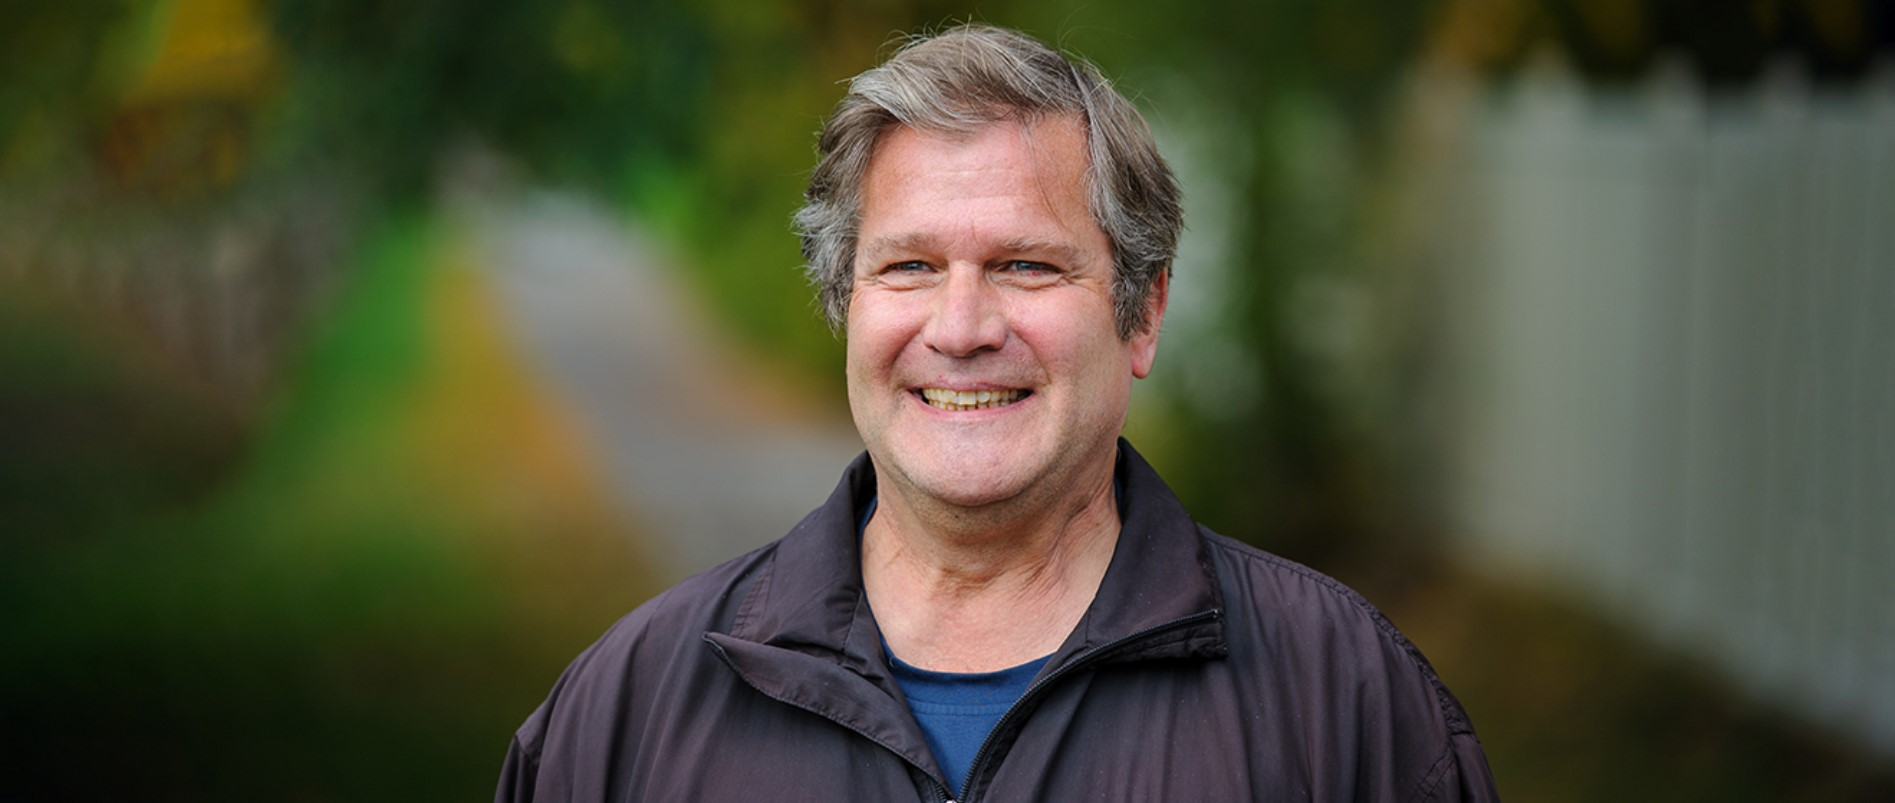
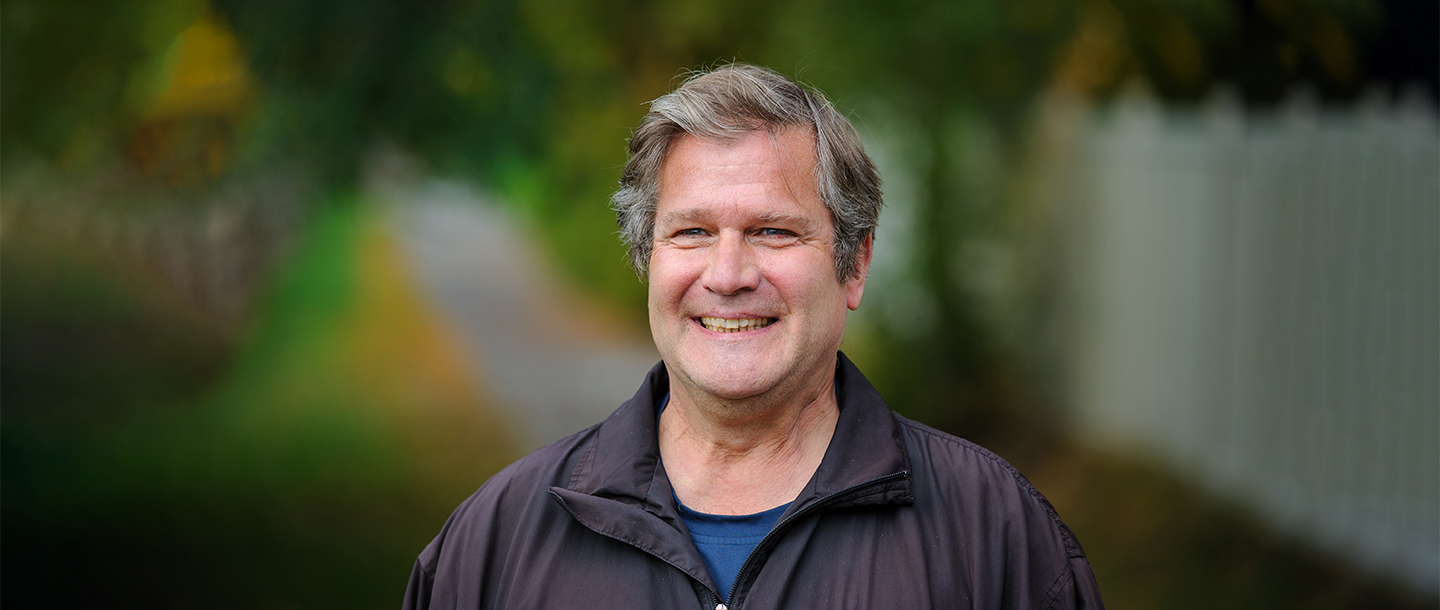
signature events hero

diff --git a/styleSE.css b/styleSE.css
@@ -352,3 +352,17 @@ ol a {
         background-color: var(--colour-orange) !important;
         color: var(--colour-white);
     }
+
+    
+.heroImage {
+    height: 100%;
+    display: flex;
+    flex-direction: column;
+    align-items: stretch;
+    justify-content: start;
+    /* border: 1px solid red; */
+    background-image: url("./The_Shepherds_of_Good_Hope_Hero_GetInvolved.jpg"); 
+    background-size: cover;
+    background-position: center;
+    height:65vh;
+  }

diff --git a/signatureEvents.html b/signatureEvents.html
@@ -218,7 +218,8 @@
                 </button>
             </div>
         </div>
-        <img src="The_Shepherds_of_Good_Hope_Hero_GetInvolved.jpg" alt="The Shepherds of Good Hope Hero">
+        <div class="heroImage"></div>
+        <!--<img src="The_Shepherds_of_Good_Hope_Hero_GetInvolved.jpg" alt="The Shepherds of Good Hope Hero"> -->
         <!--Section1-->
         <section>
             <div class="space-evenly">
